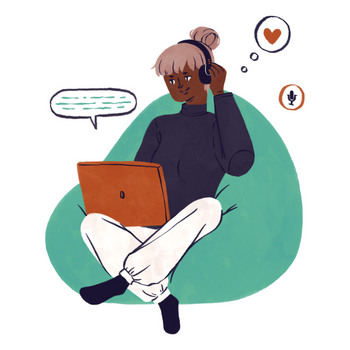
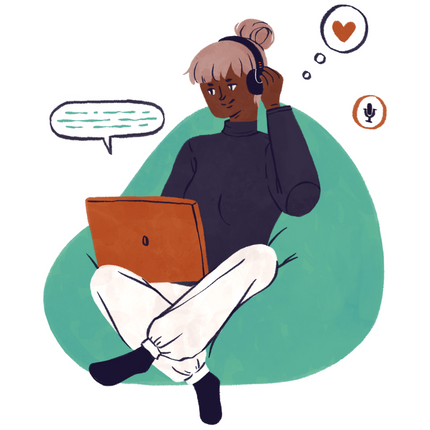
img resize + nav update

diff --git a/quarter-four.html b/quarter-four.html
@@ -52,8 +52,8 @@
               <li><a href="quarter-four.html">Quarter 4 Projects</a></li>
             </ul>
           </li>
-          <li><a class="nav-link scrollto" href="#contact">Contact</a></li>
-          <li><a class="getstarted scrollto" href="#about">Get Started</a></li>
+          <li><a class="nav-link scrollto" href="index.html#contact">Contact</a></li>
+          <li><a class="getstarted scrollto" href="index.html#about">Get Started</a></li>
         </ul>
         <i class="bi bi-list mobile-nav-toggle"></i>
       </nav><!-- .navbar -->

diff --git a/quarter-one.html b/quarter-one.html
@@ -52,8 +52,8 @@
               <li><a href="quarter-four.html">Quarter 4 Projects</a></li>
             </ul>
           </li>
-          <li><a class="nav-link scrollto" href="#contact">Contact</a></li>
-          <li><a class="getstarted scrollto" href="#about">Get Started</a></li>
+          <li><a class="nav-link scrollto" href="index.html#contact">Contact</a></li>
+          <li><a class="getstarted scrollto" href="index.html#about">Get Started</a></li>
         </ul>
         <i class="bi bi-list mobile-nav-toggle"></i>
       </nav><!-- .navbar -->

diff --git a/quarter-three.html b/quarter-three.html
@@ -52,8 +52,8 @@
               <li><a href="quarter-four.html">Quarter 4 Projects</a></li>
             </ul>
           </li>
-          <li><a class="nav-link scrollto" href="#contact">Contact</a></li>
-          <li><a class="getstarted scrollto" href="#about">Get Started</a></li>
+          <li><a class="nav-link scrollto" href="index.html#contact">Contact</a></li>
+          <li><a class="getstarted scrollto" href="index.html#about">Get Started</a></li>
         </ul>
         <i class="bi bi-list mobile-nav-toggle"></i>
       </nav><!-- .navbar -->

diff --git a/quarter-two.html b/quarter-two.html
@@ -52,8 +52,8 @@
               <li><a href="quarter-four.html">Quarter 4 Projects</a></li>
             </ul>
           </li>
-          <li><a class="nav-link scrollto" href="#contact">Contact</a></li>
-          <li><a class="getstarted scrollto" href="#about">Get Started</a></li>
+          <li><a class="nav-link scrollto" href="index.html#contact">Contact</a></li>
+          <li><a class="getstarted scrollto" href="index.html#about">Get Started</a></li>
         </ul>
         <i class="bi bi-list mobile-nav-toggle"></i>
       </nav><!-- .navbar -->
